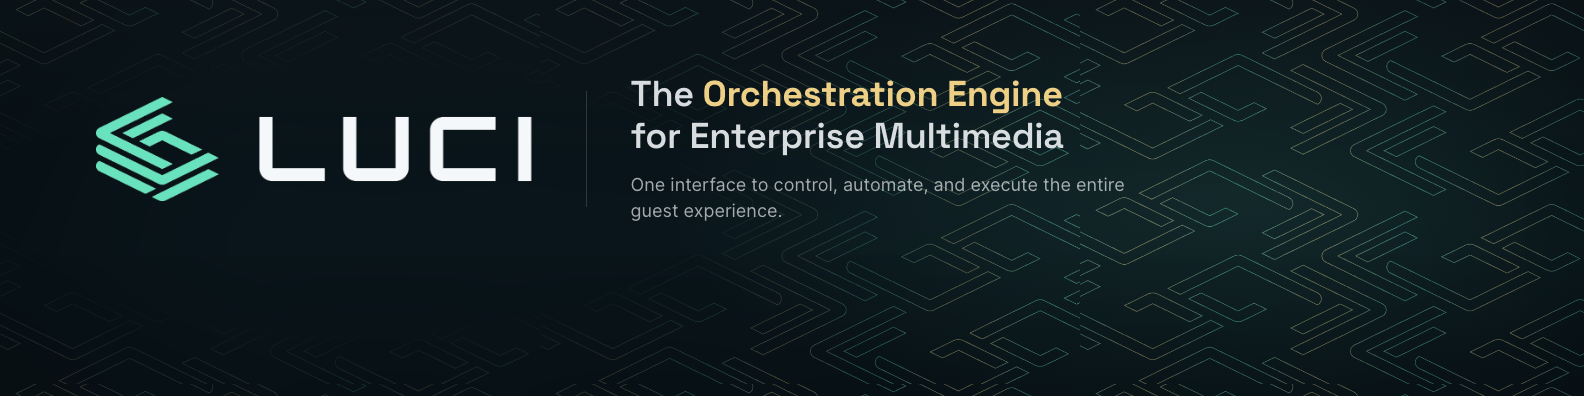
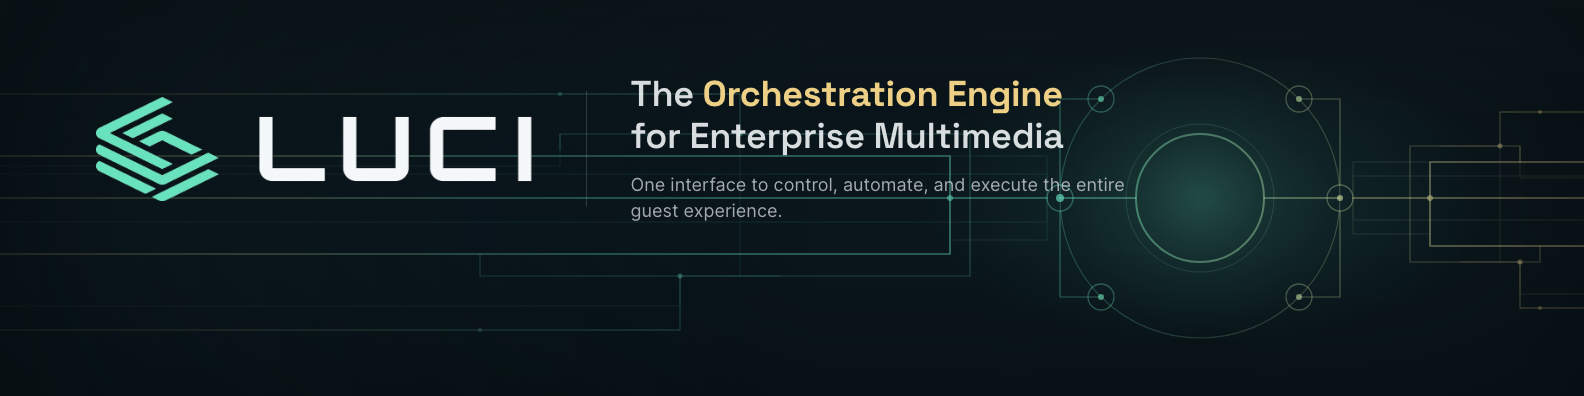
Internal team assets: standardize on the orchestration landscape motif
LinkedIn team banner swaps the circuit texture for the orchestration
landscape motif — hub anchors the right third, tissue flows left behind
the lockup, mint-gold wave gradient throughout. Lockup stays upper-left
so it clears the profile photo/name.

Gallery updated to present the cohesive D set (wallpaper, Teams, banner,
high-res master) as the standard; A/B/C variants flagged as superseded.

diff --git a/LUCI Systems Design System/assets/social/linkedin-team-banner.html b/LUCI Systems Design System/assets/social/linkedin-team-banner.html
@@ -5,14 +5,12 @@
 <title>LUCI — LinkedIn team banner (personal profile)</title>
 <!--
   LinkedIn personal-profile banner for the LUCI team. 1584x396 (@1x) / 3168x792 (@2x).
-  v2 per Mike's direction:
-    - pattern switched to the RIGHT side (was left-emphasized).
-    - lockup left-justified (was right-anchored): logo on the LEFT, taglines to its RIGHT,
-      tagline text left-aligned.
-    - sub-tagline bumped to a readable size (was 14px -> 18px); tagline 34px -> 36px.
-    - seated in the upper area so it clears the profile photo/name (bottom-left).
+  v3: swaps the circuit texture for the orchestration landscape motif (the locked
+  standard). Hub anchors the right third; connective tissue flows left across the
+  banner behind the lockup. Mint-gold wave gradient throughout. Lockup stays
+  left-justified and seated upper so it clears the profile photo/name (bottom-left).
   "Orchestration Engine" accented in gold, matching the live site + company cover.
-  Render via scripts/render-internal-team-assets.sh.
+  Render via scripts/render-internal-team-assets.sh (or headless Chrome directly).
 -->
 <link rel="stylesheet" href="../fonts/luci-brand-fonts.css">
 <style>
@@ -34,28 +32,25 @@
     position: relative; width: 1584px; height: 396px;
     background: var(--navy-deep); overflow: hidden;
   }
-  /* circuit texture — switched to the RIGHT side: transparent on the left, visible on the right */
-  .cover__pattern {
-    position: absolute; inset: 0;
-    background-image: url("../textures/texture-circuit-header-mintgold.png");
-    background-repeat: repeat; background-size: 540px auto;
-    opacity: 0.5; mix-blend-mode: screen; pointer-events: none;
-    -webkit-mask-image: radial-gradient(ellipse 50% 78% at 22% 50%, transparent 0%, transparent 42%, #000 92%);
-            mask-image: radial-gradient(ellipse 50% 78% at 22% 50%, transparent 0%, transparent 42%, #000 92%);
-  }
+  .cover__motif { position: absolute; inset: 0; width: 1584px; height: 396px; pointer-events: none; }
   .cover__glow {
     position: absolute; inset: 0;
     background:
-      radial-gradient(820px 340px at 78% 50%, rgba(var(--mint-rgb), 0.10), transparent 70%),
+      radial-gradient(420px 220px at 76% 50%, rgba(var(--mint-rgb), 0.12), transparent 70%),
       linear-gradient(180deg, rgba(255,255,255,0.018), transparent 40%);
+    pointer-events: none;
+  }
+  /* left wash so the lockup stays readable over the tissue */
+  .cover__wash {
+    position: absolute; inset: 0;
+    background: linear-gradient(90deg, rgba(10,22,28,0.62) 0%, rgba(10,22,28,0.30) 26%, rgba(10,22,28,0) 52%);
     pointer-events: none;
   }
   .cover__vignette {
     position: absolute; inset: 0;
-    box-shadow: inset 0 0 220px 40px rgba(0,0,0,0.45);
+    box-shadow: inset 0 0 180px 30px rgba(0,0,0,0.42);
     pointer-events: none;
   }
-  /* lockup — left-justified, anchored left, seated in the upper area to clear the profile photo/name */
   .cover__lockup {
     position: absolute; left: 96px; top: 74px; z-index: 2;
     display: flex; align-items: center;
@@ -83,8 +78,125 @@
 </head>
 <body>
   <div class="cover">
-    <div class="cover__pattern"></div>
-    <div class="cover__glow"></div>
+    <svg class="cover__motif" viewBox="0 0 1584 396" aria-hidden="true">
+      <defs>
+        <radialGradient id="pwr" cx="1200" cy="198" r="140" gradientUnits="userSpaceOnUse">
+          <stop offset="0%" stop-color="#68E3BE" stop-opacity="0.16"/>
+          <stop offset="50%" stop-color="#68E3BE" stop-opacity="0.04"/>
+          <stop offset="100%" stop-color="#68E3BE" stop-opacity="0"/>
+        </radialGradient>
+        <!-- Mint-gold wave in hub-local coords (hub at 0): mint at hub, gold at both edges -->
+        <linearGradient id="wave" gradientUnits="userSpaceOnUse"
+          x1="-1200" y1="-40" x2="384" y2="40">
+          <stop offset="0%" stop-color="#EDD086"/>
+          <stop offset="14%" stop-color="#D4D494"/>
+          <stop offset="32%" stop-color="#68E3BE"/>
+          <stop offset="68%" stop-color="#68E3BE"/>
+          <stop offset="86%" stop-color="#D4D494"/>
+          <stop offset="100%" stop-color="#EDD086"/>
+        </linearGradient>
+      </defs>
+      <circle cx="1200" cy="198" r="140" fill="url(#pwr)"/>
+
+      <g transform="translate(1200 198)" fill="none" stroke="url(#wave)" stroke-linecap="round" stroke-linejoin="round">
+        <!-- hub rings -->
+        <circle r="64" stroke-width="2" opacity="0.46"/>
+        <circle r="74" stroke-width="1" opacity="0.16"/>
+        <circle r="140" stroke-width="1.2" opacity="0.24"/>
+
+        <!-- spines: hub → L/R gateways -->
+        <g stroke-width="1.7" opacity="0.50">
+          <line x1="64" y1="0" x2="140" y2="0"/>
+          <line x1="-64" y1="0" x2="-140" y2="0"/>
+        </g>
+
+        <!-- satellites on the ring (corner sats at ±99,±99; L/R gateways at ±140,0) -->
+        <g opacity="0.66">
+          <circle cx="140" cy="0" r="13" stroke-width="1.3" opacity="0.55"/>
+          <circle cx="140" cy="0" r="3" fill="url(#wave)" stroke="none"/>
+          <circle cx="-140" cy="0" r="13" stroke-width="1.3" opacity="0.55"/>
+          <circle cx="-140" cy="0" r="4" fill="url(#wave)" stroke="none"/>
+          <circle cx="99" cy="99" r="13" stroke-width="1.3" opacity="0.55"/>
+          <circle cx="99" cy="99" r="3" fill="url(#wave)" stroke="none"/>
+          <circle cx="-99" cy="99" r="13" stroke-width="1.3" opacity="0.55"/>
+          <circle cx="-99" cy="99" r="3" fill="url(#wave)" stroke="none"/>
+          <circle cx="-99" cy="-99" r="13" stroke-width="1.3" opacity="0.55"/>
+          <circle cx="-99" cy="-99" r="3" fill="url(#wave)" stroke="none"/>
+          <circle cx="99" cy="-99" r="13" stroke-width="1.3" opacity="0.55"/>
+          <circle cx="99" cy="-99" r="3" fill="url(#wave)" stroke="none"/>
+        </g>
+
+        <!-- corner sats → L/R gateway → hub (orthogonal) -->
+        <g stroke-width="1.2" opacity="0.38">
+          <path d="M 99 99 H 140 V 13"/>
+          <path d="M -99 99 H -140 V 13"/>
+          <path d="M -99 -99 H -140 V -13"/>
+          <path d="M 99 -99 H 140 V -13"/>
+        </g>
+
+        <!-- RIGHT tissue — short run to the banner edge (x=384 local) -->
+        <g stroke-width="1.7" opacity="0.46">
+          <path d="M 153 0 H 384"/>
+          <path d="M 230 0 V -36 H 384"/>
+          <path d="M 230 0 V 48 H 384"/>
+        </g>
+        <g stroke-width="1.2" opacity="0.28">
+          <path d="M 210 0 V -52 H 300 V -86 H 384"/>
+          <path d="M 210 0 V 64 H 320 V 110 H 384"/>
+          <path d="M 240 -52 H 320 V -36"/>
+          <path d="M 260 64 H 340 V 48"/>
+        </g>
+        <g stroke-width="0.9" opacity="0.14">
+          <path d="M 153 0 V 22 H 384"/>
+          <path d="M 153 0 V -22 H 384"/>
+          <path d="M 153 0 V -36 H 230"/>
+          <path d="M 153 0 V 36 H 230"/>
+          <path d="M 300 -52 V 64"/>
+          <path d="M 320 -52 V -20 H 384"/>
+          <path d="M 320 64 V 96 H 384"/>
+          <path d="M 300 -86 H 384"/>
+          <path d="M 320 110 H 384"/>
+        </g>
+        <circle cx="230" cy="0" r="3" fill="url(#wave)" stroke="none" opacity="0.48"/>
+        <circle cx="300" cy="-52" r="2.5" fill="url(#wave)" stroke="none" opacity="0.40"/>
+        <circle cx="320" cy="64" r="2.5" fill="url(#wave)" stroke="none" opacity="0.40"/>
+        <circle cx="340" cy="-86" r="2" fill="url(#wave)" stroke="none" opacity="0.32"/>
+        <circle cx="340" cy="110" r="2" fill="url(#wave)" stroke="none" opacity="0.30"/>
+
+        <!-- LEFT tissue — long run across the banner behind the lockup (x=-1200 local → banner x=0) -->
+        <g stroke-width="1.7" opacity="0.46">
+          <path d="M -153 0 H -1200"/>
+          <path d="M -250 0 V -42 H -1200"/>
+          <path d="M -250 0 V 56 H -1200"/>
+        </g>
+        <g stroke-width="1.2" opacity="0.26">
+          <path d="M -230 0 V -64 H -460 V -104 H -1200"/>
+          <path d="M -230 0 V 78 H -520 V 132 H -1200"/>
+          <path d="M -380 -64 H -640 V -48"/>
+          <path d="M -420 78 H -720 V 56"/>
+        </g>
+        <g stroke-width="0.9" opacity="0.13">
+          <path d="M -153 0 V 24 H -1200"/>
+          <path d="M -153 0 V -24 H -1200"/>
+          <path d="M -153 0 V -42 H -250"/>
+          <path d="M -153 0 V 42 H -250"/>
+          <path d="M -460 -64 V 78"/>
+          <path d="M -640 -64 V -32 H -1200"/>
+          <path d="M -520 78 V 108 H -1200"/>
+          <path d="M -460 -104 H -1200"/>
+          <path d="M -520 132 H -1200"/>
+        </g>
+        <circle cx="-250" cy="0" r="3" fill="url(#wave)" stroke="none" opacity="0.48"/>
+        <circle cx="-460" cy="-64" r="2.5" fill="url(#wave)" stroke="none" opacity="0.38"/>
+        <circle cx="-520" cy="78" r="2.5" fill="url(#wave)" stroke="none" opacity="0.38"/>
+        <circle cx="-640" cy="-104" r="2" fill="url(#wave)" stroke="none" opacity="0.30"/>
+        <circle cx="-720" cy="132" r="2" fill="url(#wave)" stroke="none" opacity="0.28"/>
+      </g>
+    </svg>
+
+    <div class="cover__glow" aria-hidden="true"></div>
+    <div class="cover__wash" aria-hidden="true"></div>
+
     <div class="cover__lockup">
       <img class="cover__logo" src="../logos/luci-full-mintmark-white.png" alt="LUCI">
       <div class="cover__rule" aria-hidden="true"></div>
@@ -93,7 +205,8 @@
         <p class="cover__sub">One interface to control, automate, and execute the entire guest experience.</p>
       </div>
     </div>
-    <div class="cover__vignette"></div>
+
+    <div class="cover__vignette" aria-hidden="true"></div>
   </div>
 </body>
 </html>

diff --git a/LUCI Systems Design System/_internal-assets-gallery.html b/LUCI Systems Design System/_internal-assets-gallery.html
@@ -1,0 +1,123 @@
+<!doctype html>
+<html lang="en">
+<head>
+<meta charset="utf-8">
+<title>LUCI internal team assets — standard set</title>
+<link rel="stylesheet" href="assets/fonts/luci-brand-fonts.css">
+<style>
+  :root {
+    --navy-deep: #0A161C;
+    --navy: #10232D;
+    --mint: #68E3BE;
+    --gold: #EDD086;
+    --off-white: #F5F8FA;
+    --rule: rgba(245,248,250,0.14);
+  }
+  * { margin:0; padding:0; box-sizing:border-box; }
+  body {
+    background: var(--navy-deep);
+    color: var(--off-white);
+    font-family: 'Inter', system-ui, sans-serif;
+    padding: 48px 32px 120px;
+    -webkit-font-smoothing: antialiased;
+  }
+  .wrap { max-width: 1040px; margin: 0 auto; }
+  h1 {
+    font-family: 'Space Grotesk', system-ui, sans-serif;
+    font-weight: 700;
+    font-size: 30px;
+    letter-spacing: -0.02em;
+    margin-bottom: 8px;
+  }
+  .lede { color: rgba(245,248,250,0.62); font-size: 15px; line-height: 1.6; max-width: 62ch; margin-bottom: 40px; }
+  .lede em { font-style: normal; color: var(--mint); }
+  section { margin-bottom: 56px; }
+  h2 {
+    font-family: 'Space Grotesk', system-ui, sans-serif;
+    font-weight: 700;
+    font-size: 13px;
+    letter-spacing: 0.18em;
+    text-transform: uppercase;
+    color: var(--mint);
+    margin-bottom: 20px;
+    padding-bottom: 12px;
+    border-bottom: 1px solid var(--rule);
+  }
+  .card { margin-bottom: 28px; }
+  .card__label {
+    font-family: 'Space Grotesk', system-ui, sans-serif;
+    font-weight: 700;
+    font-size: 17px;
+    margin-bottom: 4px;
+  }
+  .card__label .tag {
+    display: inline-block;
+    width: 22px; height: 22px;
+    line-height: 22px;
+    text-align: center;
+    background: var(--mint);
+    color: var(--navy-deep);
+    font-family: 'Syncopate', sans-serif;
+    font-size: 11px;
+    margin-right: 10px;
+    vertical-align: middle;
+  }
+  .card__desc { color: rgba(245,248,250,0.6); font-size: 14px; line-height: 1.55; margin: 0 0 12px 32px; max-width: 62ch; }
+  img {
+    display: block;
+    width: 100%;
+    max-width: 960px;
+    height: auto;
+    border: 1px solid var(--rule);
+    margin-left: 32px;
+  }
+  .banner img { max-width: 1000px; }
+  .foot { margin-top: 48px; padding-top: 20px; border-top: 1px solid var(--rule); color: rgba(245,248,250,0.5); font-size: 13px; line-height: 1.6; }
+  .foot em { font-style: normal; color: var(--gold); }
+</style>
+</head>
+<body>
+<div class="wrap">
+  <h1>LUCI internal team assets</h1>
+  <p class="lede">The standard set. Every asset carries the <em>orchestration landscape</em> motif — the LUCI hub as the power source, connective tissue under its control, mint-gold wave gradient throughout. The logo stays primary in every image.</p>
+
+  <section>
+    <h2>Desktop wallpaper · 1920×1080 (2560×1440 also rendered)</h2>
+    <div class="card">
+      <div class="card__label"><span class="tag">D</span>Orchestration landscape</div>
+      <p class="card__desc">Hub right-of-center behind the tagline; tissue runs off both edges. Logo + tagline anchored left, full logo bottom-left. The house motif as a calm, controlled field.</p>
+      <img src="assets/wallpapers/wallpaper-d-engine-1920x1080.png" alt="Wallpaper D — Orchestration landscape">
+    </div>
+  </section>
+
+  <section>
+    <h2>Teams / Zoom background · 1920×1080 (center kept clear for the person on camera)</h2>
+    <div class="card">
+      <div class="card__label"><span class="tag">D</span>Orchestration landscape</div>
+      <p class="card__desc">Hub centered behind the subject (the person appears inside the orchestrated system); tissue runs off both edges. Logo + tagline bottom-right.</p>
+      <img src="assets/teams-backgrounds/teams-bg-d-engine.png" alt="Teams background D — Orchestration landscape">
+    </div>
+  </section>
+
+  <section class="banner">
+    <h2>LinkedIn personal-profile team banner · 1584×396 (@1x + @2x)</h2>
+    <div class="card">
+      <div class="card__label">Team banner</div>
+      <p class="card__desc">Hub anchors the right third; tissue flows left across the banner behind the lockup. Logo + taglines seated upper-left so they clear the profile photo/name (bottom-left). "Orchestration Engine" in gold, matching the live site + company cover.</p>
+      <img src="assets/social/linkedin-team-banner.png" alt="LinkedIn team banner">
+    </div>
+  </section>
+
+  <section>
+    <h2>High-res motif master · 4000×4000 (download for materials)</h2>
+    <div class="card">
+      <div class="card__label">Orchestration landscape — master</div>
+      <p class="card__desc">The motif on its own, no lockup. Use as a background texture in decks, one-pagers, or any material that needs the orchestration story. Vector master (.svg) scales freely; 4000px PNG for raster contexts.</p>
+      <img src="assets/wallpapers/orchestration-landscape-4000.png" alt="Orchestration landscape master">
+    </div>
+  </section>
+
+  <p class="foot">A/B/C wallpaper + Teams variants are superseded by the D set. Say the word and I'll archive them.</p>
+</div>
+</body>
+</html>
